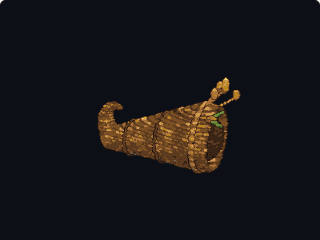
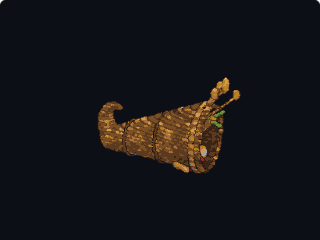
Cornucopia: hollow horn heaped inside, corn shocks on the green, no floating leaf
Claude-Session: https://claude.ai/code/session_018HstUiijLL6cWAsYPFyYF3

diff --git a/src/blobscape/props/cornucopia.ts b/src/blobscape/props/cornucopia.ts
@@ -136,33 +136,58 @@ const MOUTH = hornAt(0)
 
 const WICKER = { kind: 'bricks' as const, size: [0.1, 0.05] as [number, number], colors: ['#a8723a', '#cf9a52', '#a8723a', '#e8c07a'], line: '#5c3a20' }
 
+/**
+ * The heap inside the mouth: a pumpkin at the back with apples and a gourd on it, then apples, a pear, grapes and a
+ * squash lower down toward the lip, each resting on the horn's curved floor or on what is under it.
+ */
+const INSIDE: PartDoc[] = [
+  ...pumpkin([-0.05, 0.07, -0.1], 0.24),
+  ...pumpkin([0.16, 0.05, -0.27], 0.14, ['#f6dfa8', '#cf9a52', '#a8723a'], null),
+  ...apple([-0.08, 0.43, -0.22], undefined, false), ...apple([0.04, 0.41, 0.02], '#d8443a', false), ...apple([0.14, 0.26, 0.1], undefined, false),
+  { shape: { kind: 'ball', at: [-0.16, 0.48, 0.0], r: [0.08, 0.065, 0.07] }, paint: { kind: 'bands', axis: 'x', size: 0.03, colors: ['#46602a', '#9cb050', '#46602a', '#f6dc6a'] }, noShadow: true },
+  ...grapes([0.08, 0.56, -0.12], 3, undefined, false),
+  ...pear([0.2, 0.04, 0.04], 1),
+  ...apple([0.26, 0.04, 0.18]), ...apple([0.24, 0.05, -0.1], '#d8443a', false),
+  { shape: { kind: 'join', blend: 'smooth', by: 0.04, shapes: [{ kind: 'sphere', at: [0.02, 0.12, 0.2], r: 0.075 }, { kind: 'cone', from: [0.02, 0.12, 0.2], to: [0.2, 0.09, 0.3], r: 0.042, rTo: 0.038 }] }, paint: { kind: 'faces', top: '#f6dfa8', side: '#e8c07a', under: '#cf9a52' }, noShadow: true },
+]
+
 /** A giant woven horn of plenty lying on its side, its mouth open toward +x and its tip curled up behind. */
 export const CORNUCOPIA: PropDoc = made('Cornucopia', [-0.5, 0, -0.12], 1.1, [
   {
     shape: {
       kind: 'cut',
       shape: { kind: 'sweep', path: HORN_PATH, r: HORN_R[0], rTo: HORN_R[1] },
-      hole: { kind: 'sweep', path: [add(MOUTH, [0.25, 0, 0]), MOUTH, hornAt(1), hornAt(2), hornAt(3)], r: HORN_R[0] - 0.05, rTo: 0.2 },
+      hole: { kind: 'sweep', path: [add(MOUTH, [0.25, 0, 0]), MOUTH, hornAt(1), hornAt(2), hornAt(3)], r: 0.5175, rTo: 0.28 },
     },
     paint: WICKER,
     strokes: 0.4,
   },
-  // the dark inside, so the mouth reads as a hollow
-  { shape: { kind: 'sweep', path: [add(MOUTH, [-0.12, 0, 0]), hornAt(1), hornAt(2), hornAt(3)], r: HORN_R[0] - 0.1, rTo: 0.16 }, paint: { kind: 'bricks', size: [0.1, 0.05], colors: ['#5c3a20', '#7a4f24'], line: '#3a2416' }, noShadow: true },
+  // a darker weave lining the hollow, which runs a good way back so the mouth reads as open
+  {
+    shape: {
+      kind: 'cut',
+      shape: { kind: 'sweep', path: [add(MOUTH, [-0.03, 0, 0]), hornAt(1), hornAt(2), hornAt(3)], r: 0.476, rTo: 0.28 },
+      hole: { kind: 'sweep', path: [add(MOUTH, [0.2, 0, 0]), MOUTH, hornAt(1), hornAt(2), hornAt(3)], r: 0.468, rTo: 0.24 },
+    },
+    paint: { kind: 'bricks', size: [0.1, 0.05], colors: ['#5c3a20', '#7a4f24'], line: '#3a2416' },
+    noShadow: true,
+  },
+  // the harvest heaped inside, highest at the back, with the wheat and corn pushed into the top of the heap
+  ...INSIDE,
   // a braided rim round the mouth and two bands of binding along the horn
   { shape: { kind: 'sweep', path: loopAt(add(MOUTH, [0.01, 0, 0]), HORN_R[0] - 0.015, 15), r: 0.045 }, paint: { kind: 'bands', axis: 'y', size: 0.05, colors: ['#e8c07a', '#a8723a'] } },
   { shape: { kind: 'sweep', path: loopAt(add(hornAt(2), [0, 0, 0]), 0.405, 14), r: 0.028 }, paint: '#7a4f24', noShadow: true },
   { shape: { kind: 'sweep', path: loopAt(add(hornAt(4), [0, 0, 0]), 0.3, 12), r: 0.024 }, paint: '#7a4f24', noShadow: true },
   // wheat and corn standing up out of the top of the mouth
   {
-    shape: { kind: 'join', shapes: [[0.42, 1.2, -0.32], [0.55, 1.28, -0.15], [0.6, 1.25, 0.03], [0.5, 1.18, 0.16], [0.68, 1.1, -0.3]].map(([x, y, z]) => ({ kind: 'cone', from: [0.12, 0.72, -0.12], to: [x, y, z], r: 0.012, rTo: 0.008 })) },
+    shape: { kind: 'join', shapes: [[0.42, 1.2, -0.32], [0.55, 1.28, -0.15], [0.6, 1.25, 0.03], [0.5, 1.18, 0.16], [0.68, 1.1, -0.3]].map(([x, y, z]) => ({ kind: 'cone', from: [-0.02, 0.5, -0.12], to: [x, y, z], r: 0.012, rTo: 0.008 })) },
     paint: '#e0b430', noShadow: true,
   },
   {
     shape: { kind: 'join', shapes: [[0.42, 1.2, -0.32], [0.55, 1.28, -0.15], [0.6, 1.25, 0.03], [0.5, 1.18, 0.16], [0.68, 1.1, -0.3]].map(([x, y, z]) => ({ kind: 'ball', at: [x + 0.03, y + 0.05, z], r: [0.04, 0.07, 0.035] })) },
     paint: { kind: 'speckle', size: 0.02, colors: ['#e0b430', '#f6dc6a', '#b8861c'] }, noShadow: true,
   },
-  { shape: { kind: 'cone', from: [0.15, 0.62, 0.12], to: [0.55, 0.9, 0.22], r: 0.055, rTo: 0.045 }, paint: { kind: 'speckle', size: 0.025, colors: ['#e0b430', '#f6dc6a', '#b8861c'] }, noShadow: true },
+  { shape: { kind: 'cone', from: [0.08, 0.42, 0.08], to: [0.55, 0.9, 0.22], r: 0.055, rTo: 0.045 }, paint: { kind: 'speckle', size: 0.025, colors: ['#e0b430', '#f6dc6a', '#b8861c'] }, noShadow: true },
   { shape: { kind: 'join', shapes: [{ kind: 'cone', from: [0.5, 0.86, 0.2], to: [0.72, 0.84, 0.36], r: 0.03, rTo: 0.008 }, { kind: 'cone', from: [0.5, 0.88, 0.21], to: [0.7, 1.02, 0.25], r: 0.03, rTo: 0.008 }] }, paint: '#9cb050', noShadow: true },
 ])
 
@@ -182,16 +207,20 @@ function pumpkin(at: Vec3, r: number, colors = ['#e8782a', '#c4541a', '#8a3410']
 }
 
 /** An apple with a stalk. */
-const apple = (at: Vec3, color = '#a82226', stalk = true): PartDoc[] => [
+function apple(at: Vec3, color = '#a82226', stalk = true): PartDoc[] {
+  return [
   { shape: { kind: 'ball', at: add(at, [0, 0.06, 0]), r: [0.068, 0.062, 0.068] }, paint: { kind: 'faces', top: '#d8443a', side: color, under: '#6e1418' }, noShadow: true },
   ...(stalk ? [{ shape: { kind: 'cone', from: add(at, [0, 0.11, 0]), to: add(at, [0.01, 0.15, 0.005]), r: 0.008 }, paint: '#3a2416', noShadow: true } as PartDoc] : []),
-]
+  ]
+}
 
 /** A pear lying a little over. */
-const pear = (at: Vec3, lean: number): PartDoc[] => [
+function pear(at: Vec3, lean: number): PartDoc[] {
+  return [
   { shape: { kind: 'join', blend: 'smooth', by: 0.03, shapes: [{ kind: 'sphere', at: add(at, [0, 0.06, 0]), r: 0.065 }, { kind: 'sphere', at: add(at, [lean * 0.05, 0.13, 0]), r: 0.04 }] }, paint: { kind: 'faces', top: '#f6dc6a', side: '#e0b430', under: '#b8861c' }, noShadow: true },
   { shape: { kind: 'cone', from: add(at, [lean * 0.06, 0.17, 0]), to: add(at, [lean * 0.08, 0.21, 0]), r: 0.008 }, paint: '#3a2416', noShadow: true },
-]
+  ]
+}
 
 /** A bunch of grapes, `n` across, hanging or lying from `at` downward. */
 function grapes(at: Vec3, n: number, bone?: string, stalk = true): PartDoc[] {
@@ -213,10 +242,8 @@ const PECKED_AT: Vec3 = [0.64, 0.55, -0.28]
 
 /** Pumpkins, squash, gourds, apples, pears, grapes and leaves spilling out of the horn's mouth onto the grass. */
 export const HARVEST_SPILL: PropDoc = made('Harvest spill', [0.8, 0, 0.1], 0.8, [
-  // inside the mouth
-  ...pumpkin([0.36, 0.02, -0.16], 0.27, undefined, null),
-  ...apple([0.16, 0.12, 0.18], undefined, false), ...apple([0.02, 0.1, -0.42], '#d8443a', false),
-  ...grapes([0.32, 0.4, 0.22], 4, undefined, false),
+  // tumbling over the lip
+  ...apple([0.38, 0, -0.12], undefined, false), ...apple([0.42, 0, 0.06], '#d8443a'),
   // spilling out
   ...pumpkin([0.9, 0, -0.32], 0.32),
   ...pumpkin([1.05, 0, 0.3], 0.22),
@@ -225,7 +252,6 @@ export const HARVEST_SPILL: PropDoc = made('Harvest spill', [0.8, 0, 0.1], 0.8, 
   { shape: { kind: 'join', blend: 'smooth', by: 0.04, shapes: [{ kind: 'sphere', at: [0.72, 0.09, 0.55], r: 0.09 }, { kind: 'cone', from: [0.72, 0.09, 0.55], to: [0.9, 0.06, 0.74], r: 0.05, rTo: 0.045 }] }, paint: { kind: 'faces', top: '#f6dfa8', side: '#e8c07a', under: '#cf9a52' }, noShadow: true },
   { shape: { kind: 'ball', at: [1.38, 0.08, 0.05], r: [0.1, 0.08, 0.085] }, paint: { kind: 'bands', axis: 'x', size: 0.03, colors: ['#46602a', '#9cb050', '#46602a', '#f6dc6a'] }, noShadow: true },
   ...apple([0.5, 0, 0.18]), ...apple([0.98, 0, 0.62]), ...apple([1.3, 0, 0.38]), ...apple([0.25, 0, 0.62], '#d8443a'), ...apple([1.25, 0, -0.32]),
-  ...apple([0.33, 0.12, 0.02], undefined, false),
   ...pear([0.56, 0, 0.78], 1), ...pear([1.17, 0, 0.0], -1),
   ...apple([0.62, 0, 0.05]), ...apple([0.8, 0, 0.2], '#d8443a'), ...apple([1.4, 0, 0.55]), ...apple([0.15, 0, 0.42]),
   ...pumpkin([0.42, 0, -0.62], 0.13, ['#f6dfa8', '#cf9a52', '#a8723a']),
@@ -239,7 +265,7 @@ export const HARVEST_SPILL: PropDoc = made('Harvest spill', [0.8, 0, 0.1], 0.8, 
   { shape: { kind: 'join', blend: 'smooth', by: 0.03, shapes: [{ kind: 'sphere', at: add(GOURD_AT, [0, 0.075, 0]), r: 0.075 }, { kind: 'sphere', at: add(GOURD_AT, [0, 0.17, 0]), r: 0.045 }] }, paint: { kind: 'split', axis: 'y', at: 0.14, below: '#f6dc6a', above: '#6e8a3a' }, bone: 'gourd', noShadow: true },
   { shape: { kind: 'cone', from: add(GOURD_AT, [0, 0.21, 0]), to: add(GOURD_AT, [0.02, 0.25, 0]), r: 0.01 }, paint: '#3a2416', bone: 'gourd', noShadow: true },
   // leaves among it all
-  { shape: { kind: 'join', shapes: [{ kind: 'ball', at: [0.62, 0.02, 0.32], r: [0.06, 0.012, 0.035] }, { kind: 'ball', at: [0.86, 0.02, 0.45], r: [0.055, 0.012, 0.035] }, { kind: 'ball', at: [0.95, 0.47, 0.15], r: [0.055, 0.012, 0.035] }] }, paint: '#c4541a', noShadow: true },
+  { shape: { kind: 'join', shapes: [{ kind: 'ball', at: [0.62, 0.02, 0.32], r: [0.06, 0.012, 0.035] }, { kind: 'ball', at: [0.86, 0.02, 0.45], r: [0.055, 0.012, 0.035] }, { kind: 'ball', at: [1.1, 0.335, 0.31], r: [0.055, 0.012, 0.035] }] }, paint: '#c4541a', noShadow: true },
   { shape: { kind: 'join', shapes: [{ kind: 'ball', at: [0.3, 0.02, 0.34], r: [0.05, 0.012, 0.035] }, { kind: 'ball', at: [1.2, 0.02, 0.55], r: [0.06, 0.012, 0.04] }] }, paint: '#e0b430', noShadow: true },
 ], {
   bones: [
@@ -253,6 +279,38 @@ export const HARVEST_SPILL: PropDoc = made('Harvest spill', [0.8, 0, 0.1], 0.8, 
     { kind: 'sway', bone: 'gourd', axis: 'z', degrees: 6, times: 2, phase: 0.2, during: [0.8, 0.85] },
   ],
 })
+
+// --- the corn shocks ----------------------------------------------------------------------------------------------
+
+/** Where the corn shock stands, at the back of the green. */
+const SHOCK_AT: Vec3 = [0.3, 0, -1.35]
+
+/** Dry cornstalks bundled upright, tied round the middle, their feet splayed and their tops fanned out over the tie. */
+export const CORN_SHOCK: PropDoc = (() => {
+  const n = 13, tie = 0.52, top = 1.02
+  const stalks: { kind: 'sweep'; path: Vec3[]; r: number; rTo: number }[] = []
+  const leaves: { kind: 'cone'; from: Vec3; to: Vec3; r: number; rTo: number }[] = []
+  for (let k = 0; k < n; k++) {
+    const a = (k / n) * 2 * Math.PI + (k % 3) * 0.2
+    const c = Math.cos(a), s = Math.sin(a)
+    const foot = 0.16 + (k % 3) * 0.025, tip = 0.1 + ((k * 5) % 4) * 0.03, up = top - ((k * 7) % 5) * 0.04
+    const at = (r: number, y: number): Vec3 => [SHOCK_AT[0] + c * r, y, SHOCK_AT[2] + s * r]
+    stalks.push({ kind: 'sweep', path: [at(foot, 0), at(0.06, tie), at(tip, up)], r: 0.028, rTo: 0.016 })
+    {
+      const y = tie + 0.14 + (k % 4) * 0.06
+      leaves.push({ kind: 'cone', from: at(0.07, y), to: [SHOCK_AT[0] + Math.cos(a + 0.5) * 0.28, y - 0.12, SHOCK_AT[2] + Math.sin(a + 0.5) * 0.28], r: 0.026, rTo: 0.004 })
+    }
+  }
+  const tied = Array.from({ length: 15 }, (_, k): Vec3 => [SHOCK_AT[0] + Math.cos((k / 14) * 2 * Math.PI) * 0.07, tie, SHOCK_AT[2] + Math.sin((k / 14) * 2 * Math.PI) * 0.07])
+  return made('Corn shock', SHOCK_AT, top, [
+    { shape: { kind: 'join', shapes: stalks }, paint: { kind: 'bands', axis: 'y', size: 0.09, colors: ['#cf9a52', '#e8c07a', '#a8723a'] }, bone: 'shock' },
+    { shape: { kind: 'join', shapes: leaves }, paint: { kind: 'speckle', size: 0.03, colors: ['#e8c07a', '#cf9a52', '#b8861c'] }, bone: 'shock', noShadow: true },
+    { shape: { kind: 'sweep', path: tied, r: 0.025 }, paint: '#5c3a20', bone: 'shock', noShadow: true },
+  ], {
+    bones: [{ name: 'shock', at: SHOCK_AT }],
+    moves: [{ kind: 'sway', bone: 'shock', axis: 'z', degrees: 0.8, times: 3, wind: 4 }],
+  })
+})()
 
 // --- the visitors --------------------------------------------------------------------------------------------------
 
@@ -433,6 +491,7 @@ export const VISITING_FOX: PropDoc = made('Visiting fox', FX, 0.5, [
 export const CORNUCOPIA_MADE: MadeProp[] = [
   { id: 'autumn-green', tags: ['grassy', 'farm'], kind: 'land', about: 'A round of autumn grass on a golden afternoon, with fallen leaves, acorns and stones', prop: AUTUMN_GREEN },
   { id: 'cornucopia', tags: ['farm', 'thing'], kind: 'prop', about: 'A giant woven horn of plenty lying on its side, with wheat and corn standing out of its mouth', prop: CORNUCOPIA },
+  { id: 'corn-shock', tags: ['farm', 'plant'], kind: 'prop', about: 'Dry cornstalks bundled upright and tied round the middle', prop: CORN_SHOCK },
   { id: 'harvest-spill', tags: ['farm', 'thing'], kind: 'prop', about: 'Pumpkins, squash, gourds, apples, pears and grapes spilling out over the grass', prop: HARVEST_SPILL },
   { id: 'visiting-squirrel', tags: ['animal'], kind: 'prop', group: 'living', about: 'A red squirrel that scurries in, sits up to nibble an acorn, and scurries off again', prop: VISITING_SQUIRREL },
   { id: 'visiting-cardinal', tags: ['animal'], kind: 'prop', group: 'living', about: 'A red cardinal that flutters down, pecks at grapes and flies off again', prop: VISITING_CARDINAL },
@@ -441,7 +500,7 @@ export const CORNUCOPIA_MADE: MadeProp[] = [
 
 const here = (prop: string, at: Vec3): SceneProject['props'][number] => ({ prop, at, turn: 0, size: 1 })
 
-/** The cornucopia on the green, the harvest spilling out of it, a maple and corn behind, and the three visitors. */
+/** The cornucopia on the green, the harvest spilling out of it, a maple and two corn shocks behind, and the three visitors. */
 export const CORNUCOPIA_PROJECT: SceneProject = {
   kind: 'blobscape-project',
   version: 1,
@@ -452,7 +511,8 @@ export const CORNUCOPIA_PROJECT: SceneProject = {
     here('cornucopia', CORNUCOPIA.foot),
     here('harvest-spill', HARVEST_SPILL.foot),
     { prop: 'autumn-maple', at: [-1.25, 0, -1.3], turn: 0, size: 0.9 },
-    { prop: 'corn-stalks', at: [0.2, 0, -1.45], turn: 0, size: 0.8 },
+    here('corn-shock', SHOCK_AT),
+    { prop: 'corn-shock', at: [0.98, 0, -1.18], turn: 140, size: 0.85 },
     { ...here('visiting-squirrel', VISITING_SQUIRREL.foot), size: SQUIRREL_SIZE },
     { ...here('visiting-cardinal', VISITING_CARDINAL.foot), size: BIRD_SIZE },
     { ...here('visiting-fox', VISITING_FOX.foot), size: FOX_SIZE },

diff --git a/changes/harvest-cornucopia-scene.md b/changes/harvest-cornucopia-scene.md
@@ -1,1 +1,1 @@
-Diorama: a new scene, Harvest cornucopia: a giant woven horn spilling pumpkins, squash, gourds, apples, pears and grapes on an autumn green, visited in turn by a squirrel, a cardinal and a fox. Its six pieces join the Scene Creator library.
+Diorama: a new scene, Harvest cornucopia: a giant woven horn heaped with produce and spilling pumpkins, squash, gourds, apples, pears and grapes onto an autumn green between two corn shocks, visited in turn by a squirrel, a cardinal and a fox. Its seven pieces join the Scene Creator library.
